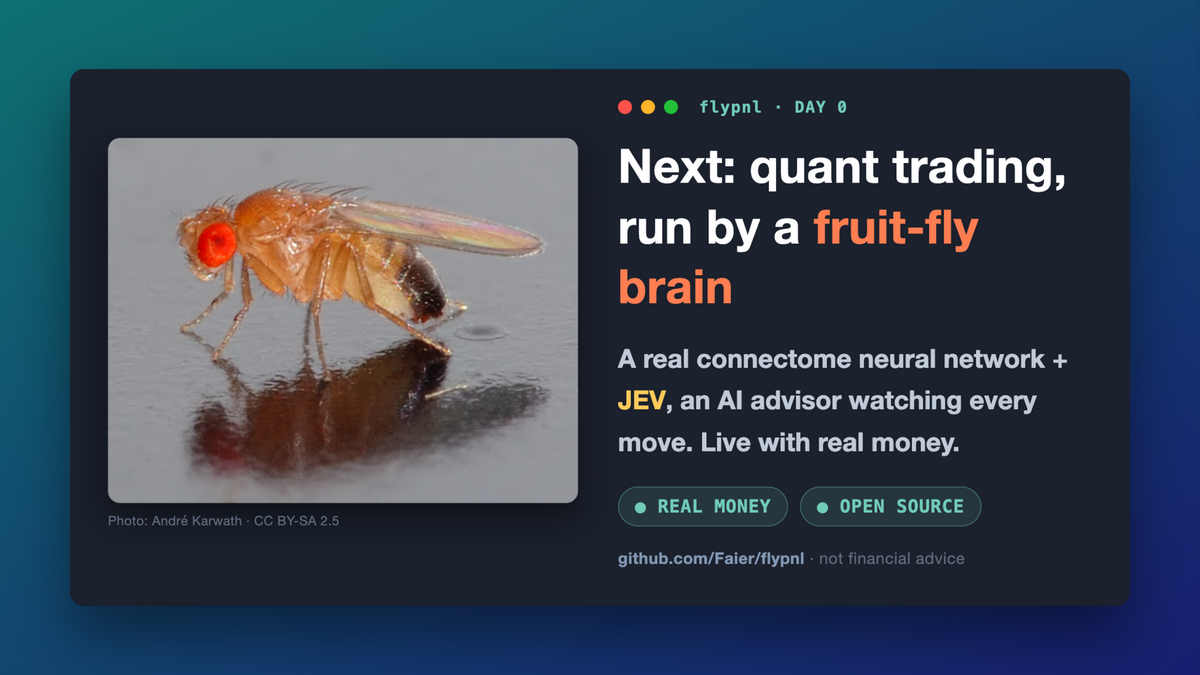
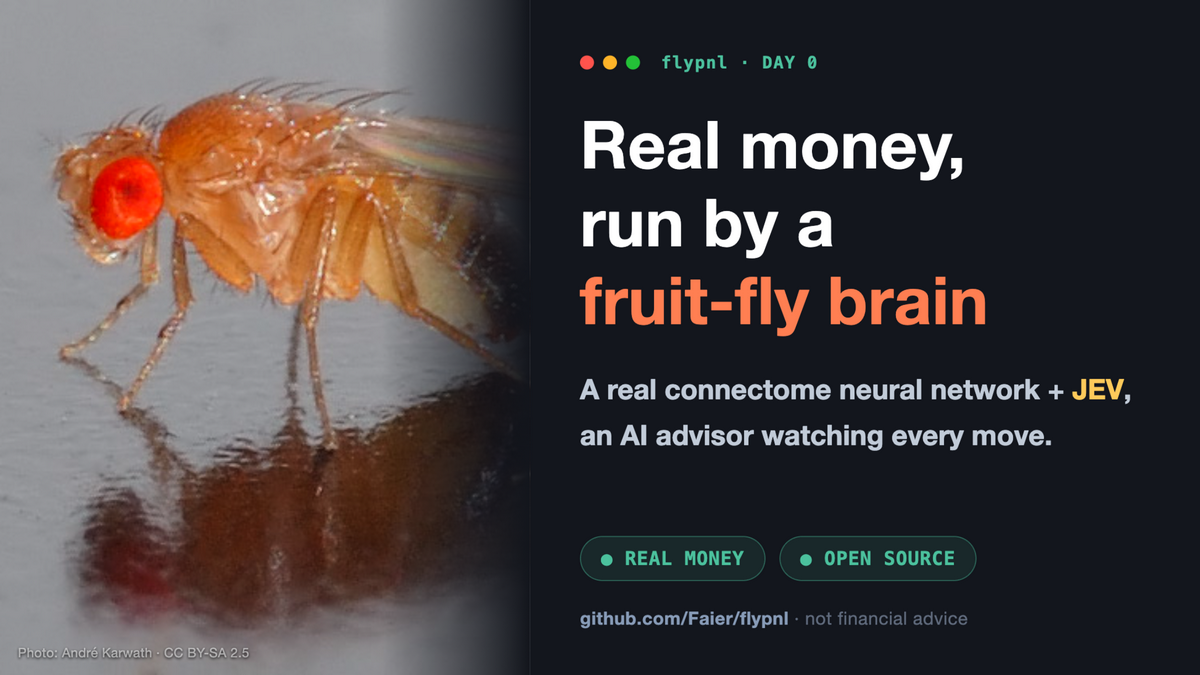
charts: fly-launch cards v2 — full-bleed dark layout, no gradient, fly head in frame

diff --git a/charts/fly-launch-en.html b/charts/fly-launch-en.html
@@ -6,79 +6,82 @@
   * { margin: 0; padding: 0; box-sizing: border-box; }
   body {
     width: 1200px; height: 675px; overflow: hidden;
-    background: linear-gradient(to bottom right, rgb(12, 125, 125), rgb(24, 33, 123));
-    display: flex; align-items: center; justify-content: center;
+    background: #12161f;
+    display: flex;
     font-family: -apple-system, "Helvetica Neue", Arial, sans-serif;
   }
-  .window {
-    width: 1060px;
-    background: #1d2433; border-radius: 14px;
-    box-shadow: 0 30px 60px rgba(0,0,0,.45);
-    padding: 30px 38px 38px;
-    display: flex; gap: 40px; align-items: center;
+  .photo-side {
+    position: relative;
+    flex: 0 0 530px; height: 675px;
   }
-  .photo {
-    flex: 0 0 470px;
-  }
-  .photo img {
-    width: 470px; height: 365px; object-fit: cover;
-    border-radius: 12px;
-    box-shadow: 0 14px 34px rgba(0,0,0,.5);
+  .photo-side img {
+    width: 100%; height: 100%; object-fit: cover; object-position: 22% 45%;
     display: block;
+    filter: saturate(1.05);
+  }
+  .photo-side::after {
+    content: ""; position: absolute; inset: 0;
+    background: linear-gradient(to right, rgba(18,22,31,0) 72%, #12161f 100%);
   }
   .credit {
-    margin-top: 10px; font-size: 13px; color: #6b7688; letter-spacing: .3px;
+    position: absolute; left: 18px; bottom: 14px; z-index: 2;
+    font-size: 13px; color: rgba(255,255,255,.55);
+    text-shadow: 0 1px 3px rgba(0,0,0,.8); letter-spacing: .3px;
   }
-  .right { flex: 1; }
+  .text-side {
+    flex: 1; height: 675px;
+    padding: 54px 58px 46px 50px;
+    display: flex; flex-direction: column;
+  }
   .bar { display: flex; align-items: center; gap: 9px; }
   .dot { width: 14px; height: 14px; border-radius: 50%; }
   .dot.r { background: #ff5f57; } .dot.y { background: #febc2e; } .dot.g { background: #28c840; }
   .tag {
-    margin-left: 12px; font: 600 16px/1 "SF Mono", Menlo, monospace;
-    color: #7dd3c0; letter-spacing: 1px;
+    margin-left: 12px; font: 600 17px/1 "SF Mono", Menlo, monospace;
+    color: #56c9a8; letter-spacing: 1px;
   }
   .title {
-    margin-top: 20px; font-size: 47px; font-weight: 900; line-height: 1.28;
-    color: #ffffff; letter-spacing: .3px;
+    margin-top: 34px; font-size: 66px; font-weight: 900; line-height: 1.18;
+    color: #ffffff; letter-spacing: .2px;
   }
   .title .fly { color: #ff8a5c; }
   .body {
-    margin-top: 22px; font-size: 26px; font-weight: 600; line-height: 1.6;
+    margin-top: 28px; font-size: 28px; font-weight: 600; line-height: 1.62;
     color: #c9d2de;
   }
   .body b { color: #ffd166; font-weight: 800; }
-  .chips { display: flex; gap: 12px; margin-top: 24px; }
+  .spacer { flex: 1; }
+  .chips { display: flex; gap: 14px; }
   .chip {
-    font: 700 18px/1 "SF Mono", Menlo, monospace; letter-spacing: .5px;
-    color: #7dd3c0; background: rgba(125,211,192,.12);
-    border: 1px solid rgba(125,211,192,.35);
-    padding: 10px 16px; border-radius: 999px;
+    font: 700 19px/1 "SF Mono", Menlo, monospace; letter-spacing: .5px;
+    color: #56c9a8; background: rgba(86,201,168,.10);
+    border: 1px solid rgba(86,201,168,.4);
+    padding: 12px 20px; border-radius: 999px;
   }
   .source {
-    margin-top: 22px; font-size: 16px; color: #6b7688; letter-spacing: .4px;
+    margin-top: 26px; font-size: 18px; color: #6b7688; letter-spacing: .4px;
   }
-  .source b { color: #8fa3bd; font-weight: 700; }
+  .source b { color: #93a6c0; font-weight: 700; }
 </style>
 </head>
 <body>
-  <div class="window">
-    <div class="photo">
-      <img src="assets/fly-photo.jpg" alt="drosophila macro">
-      <div class="credit">Photo: André Karwath · CC BY-SA 2.5</div>
+  <div class="photo-side">
+    <img src="assets/fly-photo.jpg" alt="drosophila macro">
+    <div class="credit">Photo: André Karwath · CC BY-SA 2.5</div>
+  </div>
+  <div class="text-side">
+    <div class="bar">
+      <div class="dot r"></div><div class="dot y"></div><div class="dot g"></div>
+      <span class="tag">flypnl · DAY 0</span>
     </div>
-    <div class="right">
-      <div class="bar">
-        <div class="dot r"></div><div class="dot y"></div><div class="dot g"></div>
-        <span class="tag">flypnl · DAY 0</span>
-      </div>
-      <div class="title">Next: quant trading,<br>run by a <span class="fly">fruit-fly brain</span></div>
-      <div class="body">A real connectome neural network + <b>JEV</b>, an AI advisor watching every move. Live with real money.</div>
-      <div class="chips">
-        <span class="chip">● REAL MONEY</span>
-        <span class="chip">● OPEN SOURCE</span>
-      </div>
-      <div class="source"><b>github.com/Faier/flypnl</b> · not financial advice</div>
+    <div class="title">Real money,<br>run by a<br><span class="fly">fruit-fly brain</span></div>
+    <div class="body">A real connectome neural network + <b>JEV</b>, an AI advisor watching every move.</div>
+    <div class="spacer"></div>
+    <div class="chips">
+      <span class="chip">● REAL MONEY</span>
+      <span class="chip">● OPEN SOURCE</span>
     </div>
+    <div class="source"><b>github.com/Faier/flypnl</b> · not financial advice</div>
   </div>
 </body>
 </html>

diff --git a/charts/fly-launch-cn.html b/charts/fly-launch-cn.html
@@ -6,77 +6,82 @@
   * { margin: 0; padding: 0; box-sizing: border-box; }
   body {
     width: 1200px; height: 675px; overflow: hidden;
-    background: linear-gradient(to bottom right, rgb(12, 125, 125), rgb(24, 33, 123));
-    display: flex; align-items: center; justify-content: center;
+    background: #12161f;
+    display: flex;
     font-family: -apple-system, "PingFang SC", "Microsoft YaHei", sans-serif;
   }
-  .window {
-    width: 1060px;
-    background: #1d2433; border-radius: 14px;
-    box-shadow: 0 30px 60px rgba(0,0,0,.45);
-    padding: 30px 38px 38px;
-    display: flex; gap: 40px; align-items: center;
+  .photo-side {
+    position: relative;
+    flex: 0 0 530px; height: 675px;
   }
-  .photo { flex: 0 0 470px; }
-  .photo img {
-    width: 470px; height: 365px; object-fit: cover;
-    border-radius: 12px;
-    box-shadow: 0 14px 34px rgba(0,0,0,.5);
+  .photo-side img {
+    width: 100%; height: 100%; object-fit: cover; object-position: 22% 45%;
     display: block;
+    filter: saturate(1.05);
+  }
+  .photo-side::after {
+    content: ""; position: absolute; inset: 0;
+    background: linear-gradient(to right, rgba(18,22,31,0) 72%, #12161f 100%);
   }
   .credit {
-    margin-top: 10px; font-size: 13px; color: #6b7688; letter-spacing: .3px;
+    position: absolute; left: 18px; bottom: 14px; z-index: 2;
+    font-size: 13px; color: rgba(255,255,255,.55);
+    text-shadow: 0 1px 3px rgba(0,0,0,.8); letter-spacing: .3px;
   }
-  .right { flex: 1; }
+  .text-side {
+    flex: 1; height: 675px;
+    padding: 54px 58px 46px 50px;
+    display: flex; flex-direction: column;
+  }
   .bar { display: flex; align-items: center; gap: 9px; }
   .dot { width: 14px; height: 14px; border-radius: 50%; }
   .dot.r { background: #ff5f57; } .dot.y { background: #febc2e; } .dot.g { background: #28c840; }
   .tag {
-    margin-left: 12px; font: 600 16px/1 "SF Mono", Menlo, monospace;
-    color: #7dd3c0; letter-spacing: 1px;
+    margin-left: 12px; font: 600 17px/1 "SF Mono", Menlo, monospace;
+    color: #56c9a8; letter-spacing: 1px;
   }
   .title {
-    margin-top: 20px; font-size: 48px; font-weight: 900; line-height: 1.32;
+    margin-top: 34px; font-size: 64px; font-weight: 900; line-height: 1.3;
     color: #ffffff; letter-spacing: 1px;
   }
   .title .fly { color: #ff8a5c; }
   .body {
-    margin-top: 22px; font-size: 26px; font-weight: 600; line-height: 1.6;
+    margin-top: 28px; font-size: 28px; font-weight: 600; line-height: 1.62;
     color: #c9d2de; letter-spacing: .5px;
   }
   .body b { color: #ffd166; font-weight: 800; }
-  .chips { display: flex; gap: 12px; margin-top: 24px; }
+  .spacer { flex: 1; }
+  .chips { display: flex; gap: 14px; }
   .chip {
-    font: 700 18px/1 "SF Mono", Menlo, monospace; letter-spacing: .5px;
-    color: #7dd3c0; background: rgba(125,211,192,.12);
-    border: 1px solid rgba(125,211,192,.35);
-    padding: 10px 16px; border-radius: 999px;
+    font: 700 19px/1 "SF Mono", Menlo, monospace; letter-spacing: .5px;
+    color: #56c9a8; background: rgba(86,201,168,.10);
+    border: 1px solid rgba(86,201,168,.4);
+    padding: 12px 20px; border-radius: 999px;
   }
   .source {
-    margin-top: 22px; font-size: 16px; color: #6b7688; letter-spacing: .4px;
+    margin-top: 26px; font-size: 18px; color: #6b7688; letter-spacing: .4px;
   }
-  .source b { color: #8fa3bd; font-weight: 700; }
+  .source b { color: #93a6c0; font-weight: 700; }
 </style>
 </head>
 <body>
-  <div class="window">
-    <div class="photo">
-      <img src="assets/fly-photo.jpg" alt="果蝇微距实拍">
-      <div class="credit">果蝇实拍 Photo: André Karwath · CC BY-SA 2.5</div>
+  <div class="photo-side">
+    <img src="assets/fly-photo.jpg" alt="果蝇微距实拍">
+    <div class="credit">果蝇实拍 Photo: André Karwath · CC BY-SA 2.5</div>
+  </div>
+  <div class="text-side">
+    <div class="bar">
+      <div class="dot r"></div><div class="dot y"></div><div class="dot g"></div>
+      <span class="tag">flypnl · DAY 0</span>
     </div>
-    <div class="right">
-      <div class="bar">
-        <div class="dot r"></div><div class="dot y"></div><div class="dot g"></div>
-        <span class="tag">flypnl · DAY 0</span>
-      </div>
-      <div class="title">接下来:<span class="fly">果蝇大脑</span><br>替我跑量化交易</div>
-      <div class="body">真连接组神经网络 + <b>JEV(AI 顾问)</b><br>盯每一步。真金白银实盘。</div>
-      <div class="chips">
-        <span class="chip">● 实盘资金</span>
-        <span class="chip">● 全部开源</span>
-      </div>
-      <div class="source"><b>github.com/Faier/flypnl</b> · 不构成投资建议</div>
+    <div class="title">真金白银,<br>交给<span class="fly">果蝇大脑</span><br>来跑</div>
+    <div class="body">真连接组神经网络 + <b>JEV(AI 顾问)</b><br>盯每一步。</div>
+    <div class="spacer"></div>
+    <div class="chips">
+      <span class="chip">● 实盘资金</span>
+      <span class="chip">● 全部开源</span>
     </div>
+    <div class="source"><b>github.com/Faier/flypnl</b> · 不构成投资建议</div>
   </div>
 </body>
 </html>
